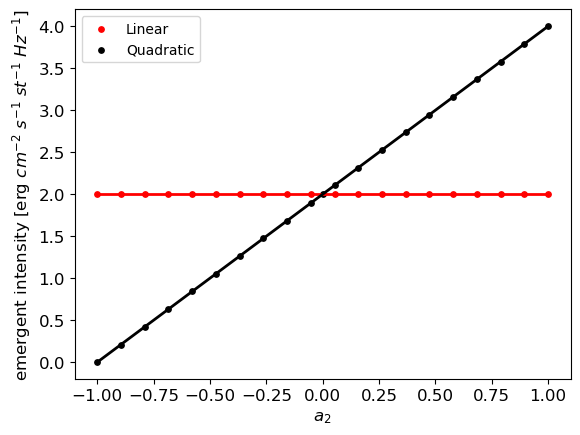
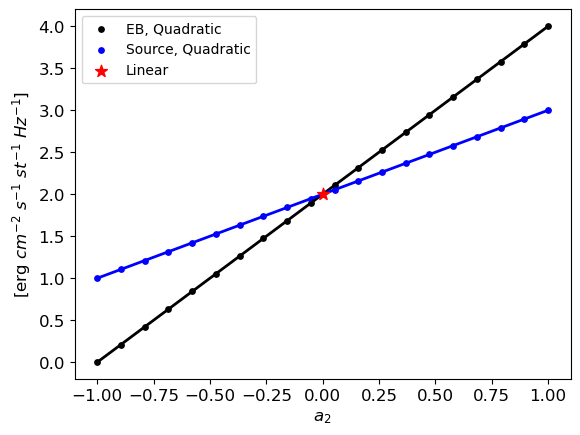
hw3 done

diff --git a/homework_three.py b/homework_three.py
@@ -5,7 +5,7 @@ from scipy import integrate
 import scipy.special as sc
 import numpy as np
 
-## 4. Emergent Intensity Integrator
+# 4. Emergent Intensity Integrator
 
 """
 (a) Illustrate your answer to Problem 2 (from last week) by numerically integrating the
@@ -32,21 +32,22 @@ output_linear = a0*a0_coeff+a1*a1_coeff
 a2_coeff = integrate.simpson(intensity_integral(2, x_array), x_array)
 output_quadratic = a0*a0_coeff+a1*a1_coeff+a2*a2_coeff
 output_quadratic_zero = a0*a0_coeff+a1*a1_coeff+0*a2_coeff
+source_quadratic = a0*a0_coeff+a1*a1_coeff+a2
 #plot
-plt.plot(a2, [output_linear]*len(a2), linewidth = 2, color = 'r')
 plt.plot(a2, output_quadratic, linewidth = 2, color = 'k')
-plt.scatter(a2, [output_linear]*len(a2), s = 15, color = 'r', label = "Linear")
-plt.scatter(a2, output_quadratic, s = 15, color = 'k', label = "Quadratic")
-plt.scatter(0, output_quadratic_zero, s = 15, color = 'k')
+plt.plot(a2, source_quadratic, linewidth = 2, color = 'b')
+plt.scatter(a2, output_quadratic, s = 15, color = 'k', label = "EB, Quadratic")
+plt.scatter(a2, source_quadratic, s = 15, color = 'b', label = "Source, Quadratic")
+plt.scatter(0, output_linear, s = 80, marker = "*", color = 'r', label = "Linear", zorder=5)
 plt.xlabel("$a_{2}$", fontsize = 12)
-plt.ylabel("emergent intensity [erg $cm^{-2}$ $s^{-1}$ $st^{-1}$ $Hz^{-1}$]", fontsize = 12)
+plt.ylabel("[erg $cm^{-2}$ $s^{-1}$ $st^{-1}$ $Hz^{-1}$]", fontsize = 12)
 plt.xticks(fontsize = 12) 
 plt.yticks(fontsize = 12)
 plt.legend()
 plt.savefig("Figures/hw_three_figures/sample_4a.png", bbox_inches='tight')
 plt.show()
 
-#confirm: negative values of a2 results in EB overestimating whereas positive values of a2 results in EB underestimating and at a2 = 0 perfect match
+#confirm: negative values of a2 results in EB underestimate whereas positive values of a2 results in EB overestimate and at a2 = 0 perfect match
 
 """
 (b) Explain (and perhaps show) how you determined that your sampling and limits of
@@ -156,53 +157,76 @@ print("E(n = 1) = {}".format(sc.expn(1, x)))
 b) Numerically integrate the area under the first three exponential functions (that is,
 numerically integrate En(x)dx for n = 1, 2, 3). How close can you get to the analytic result? What limits your precision?
 """
-#precision for linear and quadratic functions with optimized integral parameters (above)
-truth_linear = a0+a1
-truth_quadratic = a0+a1+2*a2
-output_quadratic = a0*a0_coeff+a1*a1_coeff+a2*a2_coeff
-precision_linear = np.abs(truth_linear - output_linear)/truth_linear
-precision_quadratic = np.abs(truth_quadratic - output_quadratic)/truth_quadratic
 
-print("truth: {} vs calculation: {} gives precision of {}".format(truth_linear, output_linear, precision_linear))
-#truth: 2 vs calculation: 2.0 gives precision of 0.0
-print("truth: {} vs calculation: {} gives precision of {}".format(truth_quadratic, output_quadratic, precision_quadratic))
-#truth: 6 vs calculation: 5.999999999999998 gives precision of 2.9605947323337506e-16
+#analytic results (derived via mathematica - shared in report)
+n = [1,2,3]
+truth1 = 1/n[0]
+truth2 = 1/n[1]
+truth3 = 1/n[2]
+#numerically integrate 
+x_min = 10**(-16) 
+x_max = 50
+step = 10**(-5) 
+x_array = np.power(10, np.arange(np.log10(x_min), np.log10(x_max), step))
+expn1 = sc.expn(1, x_array)
+expn2 = sc.expn(2, x_array)
+expn3 = sc.expn(3, x_array)
+output1 = integrate.simpson(expn1, x_array)
+output2 = integrate.simpson(expn2, x_array)
+output3 = integrate.simpson(expn3, x_array)
+#precision for n = 1,2,3 with optimized integral parameters
+precision1 = np.abs(truth1 - output1)/truth1
+precision2 = np.abs(truth2 - output2)/truth2
+precision3 = np.abs(truth3 - output3)/truth3
+
+print("truth: {} vs calculation: {} gives precision of {}".format(truth1, output1, precision1))
+#truth: 1.0 vs calculation: 0.9999999999999962 gives precision of 3.774758283725532e-15
+print("truth: {} vs calculation: {} gives precision of {}".format(truth2, output2, precision2))
+#truth: 0.5 vs calculation: 0.4999999999999999 gives precision of 2.220446049250313e-16
+print("truth: {} vs calculation: {} gives precision of {}".format(truth3, output3, precision3))
+#truth: 0.3333333333333333 vs calculation: 0.33333333333333337 gives precision of 1.6653345369377348e-16
+
+"""
+c) Explain how you determined that your sampling and upper limit in part (b) are appro-
+priate and how you determined the precision of your integration. For a box or trapezoid
+integrator, you may need to experiment with appropriate samplings and limits to achieve
+an precise result. What’s the best precision you can get in a reasonable computation time
+(less than a second)? What upper limit and spacing of points gives you that precision?
+How few points can you get away with, practically speaking? (If you use a black-box
+integrator, describe how it does these things and how you know it’s working.)
+"""
+
+#given n = 1 had the worse precision with the parameters above, i will optimize parameters using n =1 
 
 #relative prescision convergence
 x_min_arr = np.logspace(-20, -10, 20)
 x_max_arr = np.logspace(1, 2, 20)
 step_arr = np.logspace(-6, -5, 20)
  
-x_min_result_quadratic = []
-x_max_result_quadratic = []
-step_result_quadratic = []
+x_min_result = []
+x_max_result = []
+step_result = []
 for i in x_min_arr:
-    x_array = np.arange(i, x_max, step)
-    a0_coeff = integrate.simpson(intensity_integral(0, x_array), x_array)
-    a1_coeff = integrate.simpson(intensity_integral(1, x_array), x_array)
-    a2_coeff = integrate.simpson(intensity_integral(2, x_array), x_array)
-    output_quadratic = a0*a0_coeff+a1*a1_coeff+a2*a2_coeff
-    precision_quadratic = np.abs(truth_quadratic - output_quadratic)/truth_quadratic
-    x_min_result_quadratic.append(precision_quadratic)
+    x_array = np.power(10, np.arange(np.log10(i), np.log10(x_max), step))
+    expn1 = sc.expn(1, x_array)
+    output1 = integrate.simpson(expn1, x_array)
+    precision1 = np.abs(truth1 - output1)/truth1
+    x_min_result.append(precision1)
 for i in x_max_arr:
-    x_array = np.arange(x_min, i, step)
-    a0_coeff = integrate.simpson(intensity_integral(0, x_array), x_array)
-    a1_coeff = integrate.simpson(intensity_integral(1, x_array), x_array)
-    a2_coeff = integrate.simpson(intensity_integral(2, x_array), x_array)
-    output_quadratic = a0*a0_coeff+a1*a1_coeff+a2*a2_coeff
-    precision_quadratic = np.abs(truth_quadratic - output_quadratic)/truth_quadratic
-    x_max_result_quadratic.append(precision_quadratic)
+    x_array = np.power(10, np.arange(np.log10(x_min), np.log10(i), step))
+    expn1 = sc.expn(1, x_array)
+    output1 = integrate.simpson(expn1, x_array)
+    precision1 = np.abs(truth1 - output1)/truth1
+    x_max_result.append(precision1)
 for i in step_arr:
-    x_array = np.arange(x_min, x_max, i)
-    a0_coeff = integrate.simpson(intensity_integral(0, x_array), x_array)
-    a1_coeff = integrate.simpson(intensity_integral(1, x_array), x_array)
-    a2_coeff = integrate.simpson(intensity_integral(2, x_array), x_array)
-    output_quadratic = a0*a0_coeff+a1*a1_coeff+a2*a2_coeff
-    precision_quadratic = np.abs(truth_quadratic - output_quadratic)/truth_quadratic
-    step_result_quadratic.append(precision_quadratic)
+    x_array = np.power(10, np.arange(np.log10(x_min), np.log10(x_max), i))
+    expn1 = sc.expn(1, x_array)
+    output1 = integrate.simpson(expn1, x_array)
+    precision1 = np.abs(truth1 - output1)/truth1
+    step_result.append(precision1)
 
-plt.plot(x_min_arr, x_min_result_quadratic, linewidth = 2, color = 'k')
-plt.scatter(x_min_arr, x_min_result_quadratic, s = 15, color = 'k')
+plt.plot(x_min_arr, x_min_result, linewidth = 2, color = 'k')
+plt.scatter(x_min_arr, x_min_result, s = 15, color = 'k')
 plt.xlabel("log min bound", fontsize = 12)
 plt.ylabel("log relative precision", fontsize = 12)
 plt.xticks(fontsize = 12) 
@@ -210,11 +234,11 @@ plt.yticks(fontsize = 12)
 plt.yscale("log")
 plt.xscale("log")
 plt.legend()
-plt.savefig("Figures/hw_three_figures/sample_4i.png", bbox_inches='tight')
+plt.savefig("Figures/hw_three_figures/sample_5bi.png", bbox_inches='tight')
 plt.show()
 
-plt.plot(x_max_arr, x_max_result_quadratic, linewidth = 2, color = 'k')
-plt.scatter(x_max_arr, x_max_result_quadratic, s = 15, color = 'k')
+plt.plot(x_max_arr, x_max_result, linewidth = 2, color = 'k')
+plt.scatter(x_max_arr, x_max_result, s = 15, color = 'k')
 plt.xlabel("log max bound", fontsize = 12)
 plt.ylabel("log relative precision", fontsize = 12)
 plt.xticks(fontsize = 12) 
@@ -222,11 +246,11 @@ plt.yticks(fontsize = 12)
 plt.yscale("log")
 plt.xscale("log")
 plt.legend()
-plt.savefig("Figures/hw_three_figures/sample_4bii.png", bbox_inches='tight')
+plt.savefig("Figures/hw_three_figures/sample_5bii.png", bbox_inches='tight')
 plt.show()
 
-plt.plot(step_arr, step_result_quadratic, linewidth = 2, color = 'k')
-plt.scatter(step_arr, step_result_quadratic, s = 15, color = 'k')
+plt.plot(step_arr, step_result, linewidth = 2, color = 'k')
+plt.scatter(step_arr, step_result, s = 15, color = 'k')
 plt.xlabel("log step width", fontsize = 12)
 plt.ylabel("log precision", fontsize = 12)
 plt.xticks(fontsize = 12) 
@@ -234,92 +258,28 @@ plt.yticks(fontsize = 12)
 plt.yscale("log")
 plt.xscale("log")
 plt.legend()
-plt.savefig("Figures/hw_three_figures/sample_4biii.png", bbox_inches='tight')
+plt.savefig("Figures/hw_three_figures/sample_5biii.png", bbox_inches='tight')
 plt.show()
 
+#numerically integrate 
+x_min = 10**(-20) 
+x_max = 50
+step = 10**(-5) 
+x_array = np.power(10, np.arange(np.log10(x_min), np.log10(x_max), step))
+expn1 = sc.expn(1, x_array)
+expn2 = sc.expn(2, x_array)
+expn3 = sc.expn(3, x_array)
+output1 = integrate.simpson(expn1, x_array)
+output2 = integrate.simpson(expn2, x_array)
+output3 = integrate.simpson(expn3, x_array)
+#precision for n = 1,2,3 with optimized integral parameters
+precision1 = np.abs(truth1 - output1)/truth1
+precision2 = np.abs(truth2 - output2)/truth2
+precision3 = np.abs(truth3 - output3)/truth3
 
-
-
-
-
-
-
-
-
-
-
-
-
-
-# # #using scipy.special.expn to get analytic result for n = 1,2,3 for x = 10**(-10) (which is lower bound of integral)
-# # # x_min = 10**(-10)
-# # # truth_E0 = sc.expn(0, x_min)
-# # # truth_E1 = sc.expn(1, x_min)
-# # # truth_E2 = sc.expn(2, x_min)
-
-
-
-
-
-
-
-
-# # # x_min_arr = np.logspace(-12, -5, 50)
-# # # x_max_arr = np.logspace(2, 3, 20)
-# # # step_arr = np.logspace(-6, -5, 20)
-
-# # # x_min_result = []
-# # # x_max_result = []
-# # # step_result = []
-
-# # # x_min = 10**(-4)
-# # # x_max = 100
-# # # step = 0.00001
-
-# # # # for i in x_min_arr:
-# # # #     output = integrate_special_exp(0, i, x_max, step)
-# # # #     precision = np.abs(truth_E0 - output)/truth_E0
-# # # #     x_min_result.append(precision)
-# # # for i in x_max_arr:
-# # #     output = integrate_special_exp(0, x_min, i, step)
-# # #     precision = np.abs(truth_E0 - output)/truth_E0
-# # #     x_max_result.append(precision)
-# # # # for i in step_arr:
-# # # #     output = integrate_special_exp(0, x_min, x_max, i)
-# # # #     precision = np.abs(truth_E0 - output)/truth_E0
-# # # #     step_result.append(precision)
-
-# # # # plt.plot(x_min_arr, x_min_result, linewidth = 1)
-# # # # plt.xticks(fontsize = 12) 
-# # # # plt.yticks(fontsize = 12) 
-# # # # plt.yscale("log")
-# # # # plt.xscale("log")
-# # # # plt.show()
-
-# # # plt.plot(x_max_arr, x_max_result, linewidth = 1)
-# # # plt.xticks(fontsize = 12) 
-# # # plt.yticks(fontsize = 12) 
-# # # plt.yscale("log")
-# # # plt.xscale("log")
-# # # plt.show()
-
-# # # # plt.plot(step_arr, step_result, linewidth = 1)
-# # # # plt.xticks(fontsize = 12) 
-# # # # plt.yticks(fontsize = 12) 
-# # # # plt.yscale("log")
-# # # # plt.xscale("log")
-# # # # plt.show()
-
-
-
-
-# # # # #print(integrate_special_exp(0, x_min, 100000, 0.1))
-
-
-
-
-
-
-
-
-
+print("truth: {} vs calculation: {} gives precision of {}".format(truth1, output1, precision1))
+#truth: 1.0 vs calculation: 1.0 gives precision of 0.0
+print("truth: {} vs calculation: {} gives precision of {}".format(truth2, output2, precision2))
+#truth: 0.5 vs calculation: 0.5 gives precision of 0.0
+print("truth: {} vs calculation: {} gives precision of {}".format(truth3, output3, precision3))
+#truth: 0.3333333333333333 vs calculation: 0.33333333333333326 gives precision of 1.6653345369377348e-16
